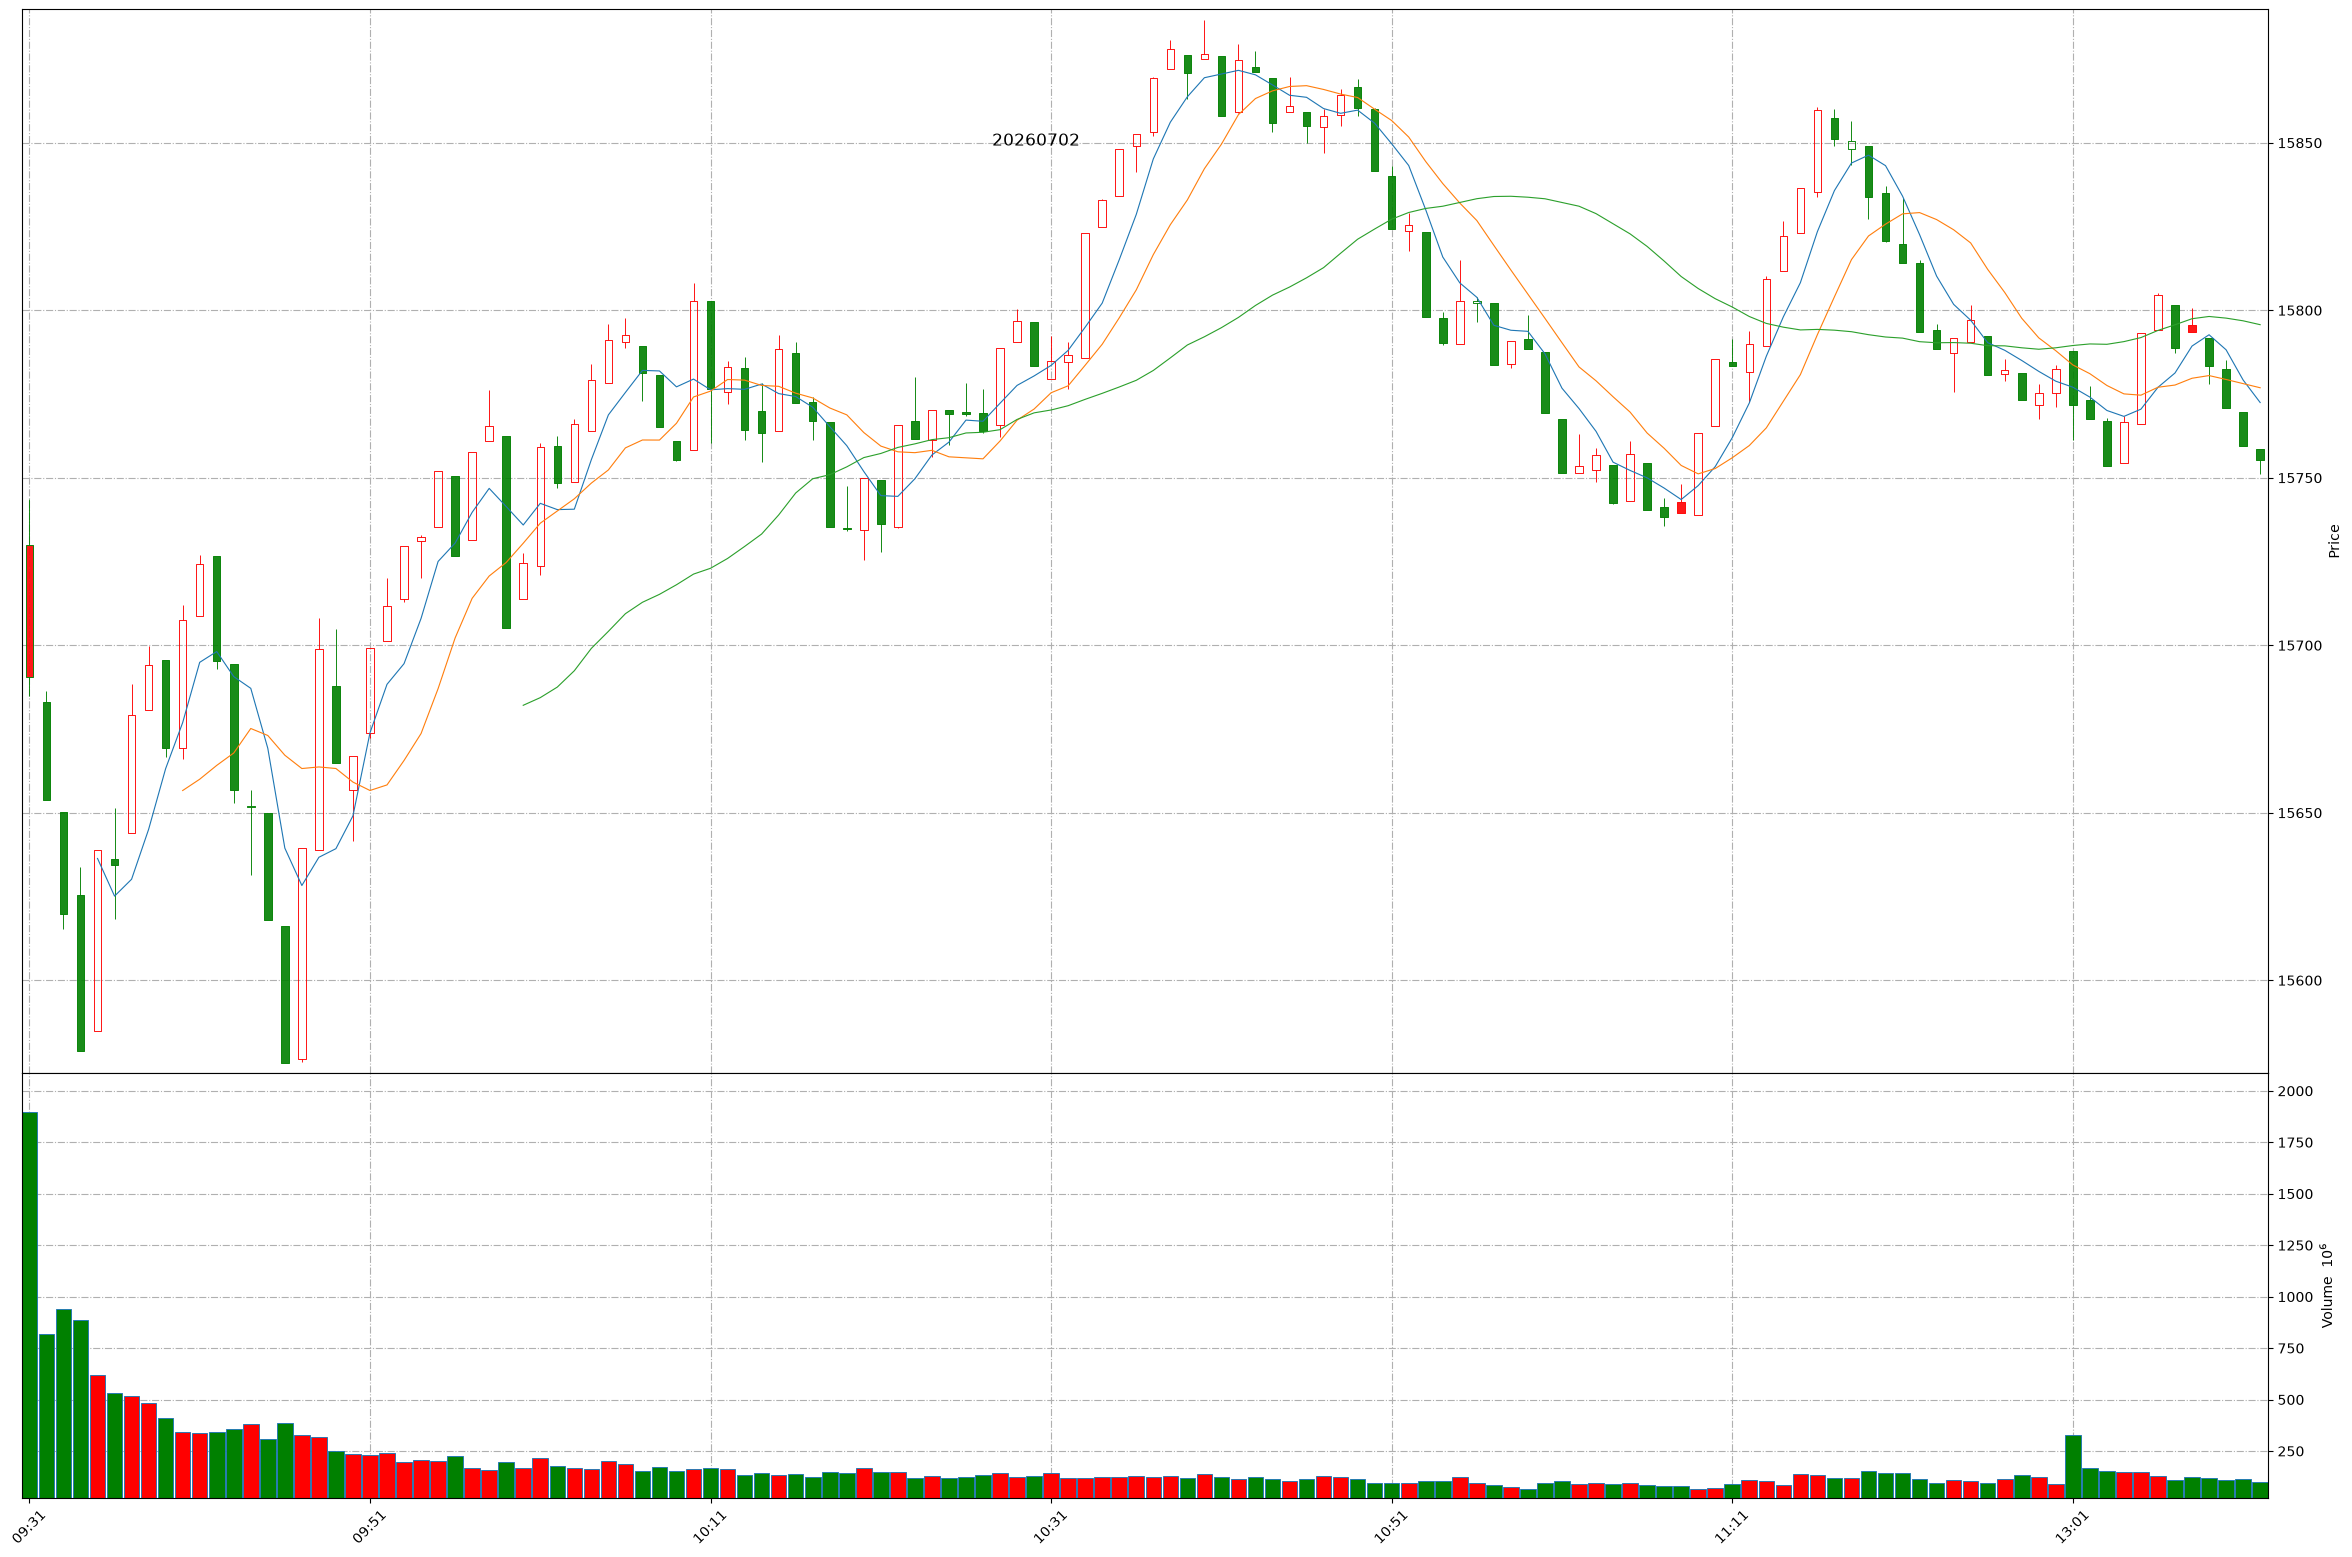
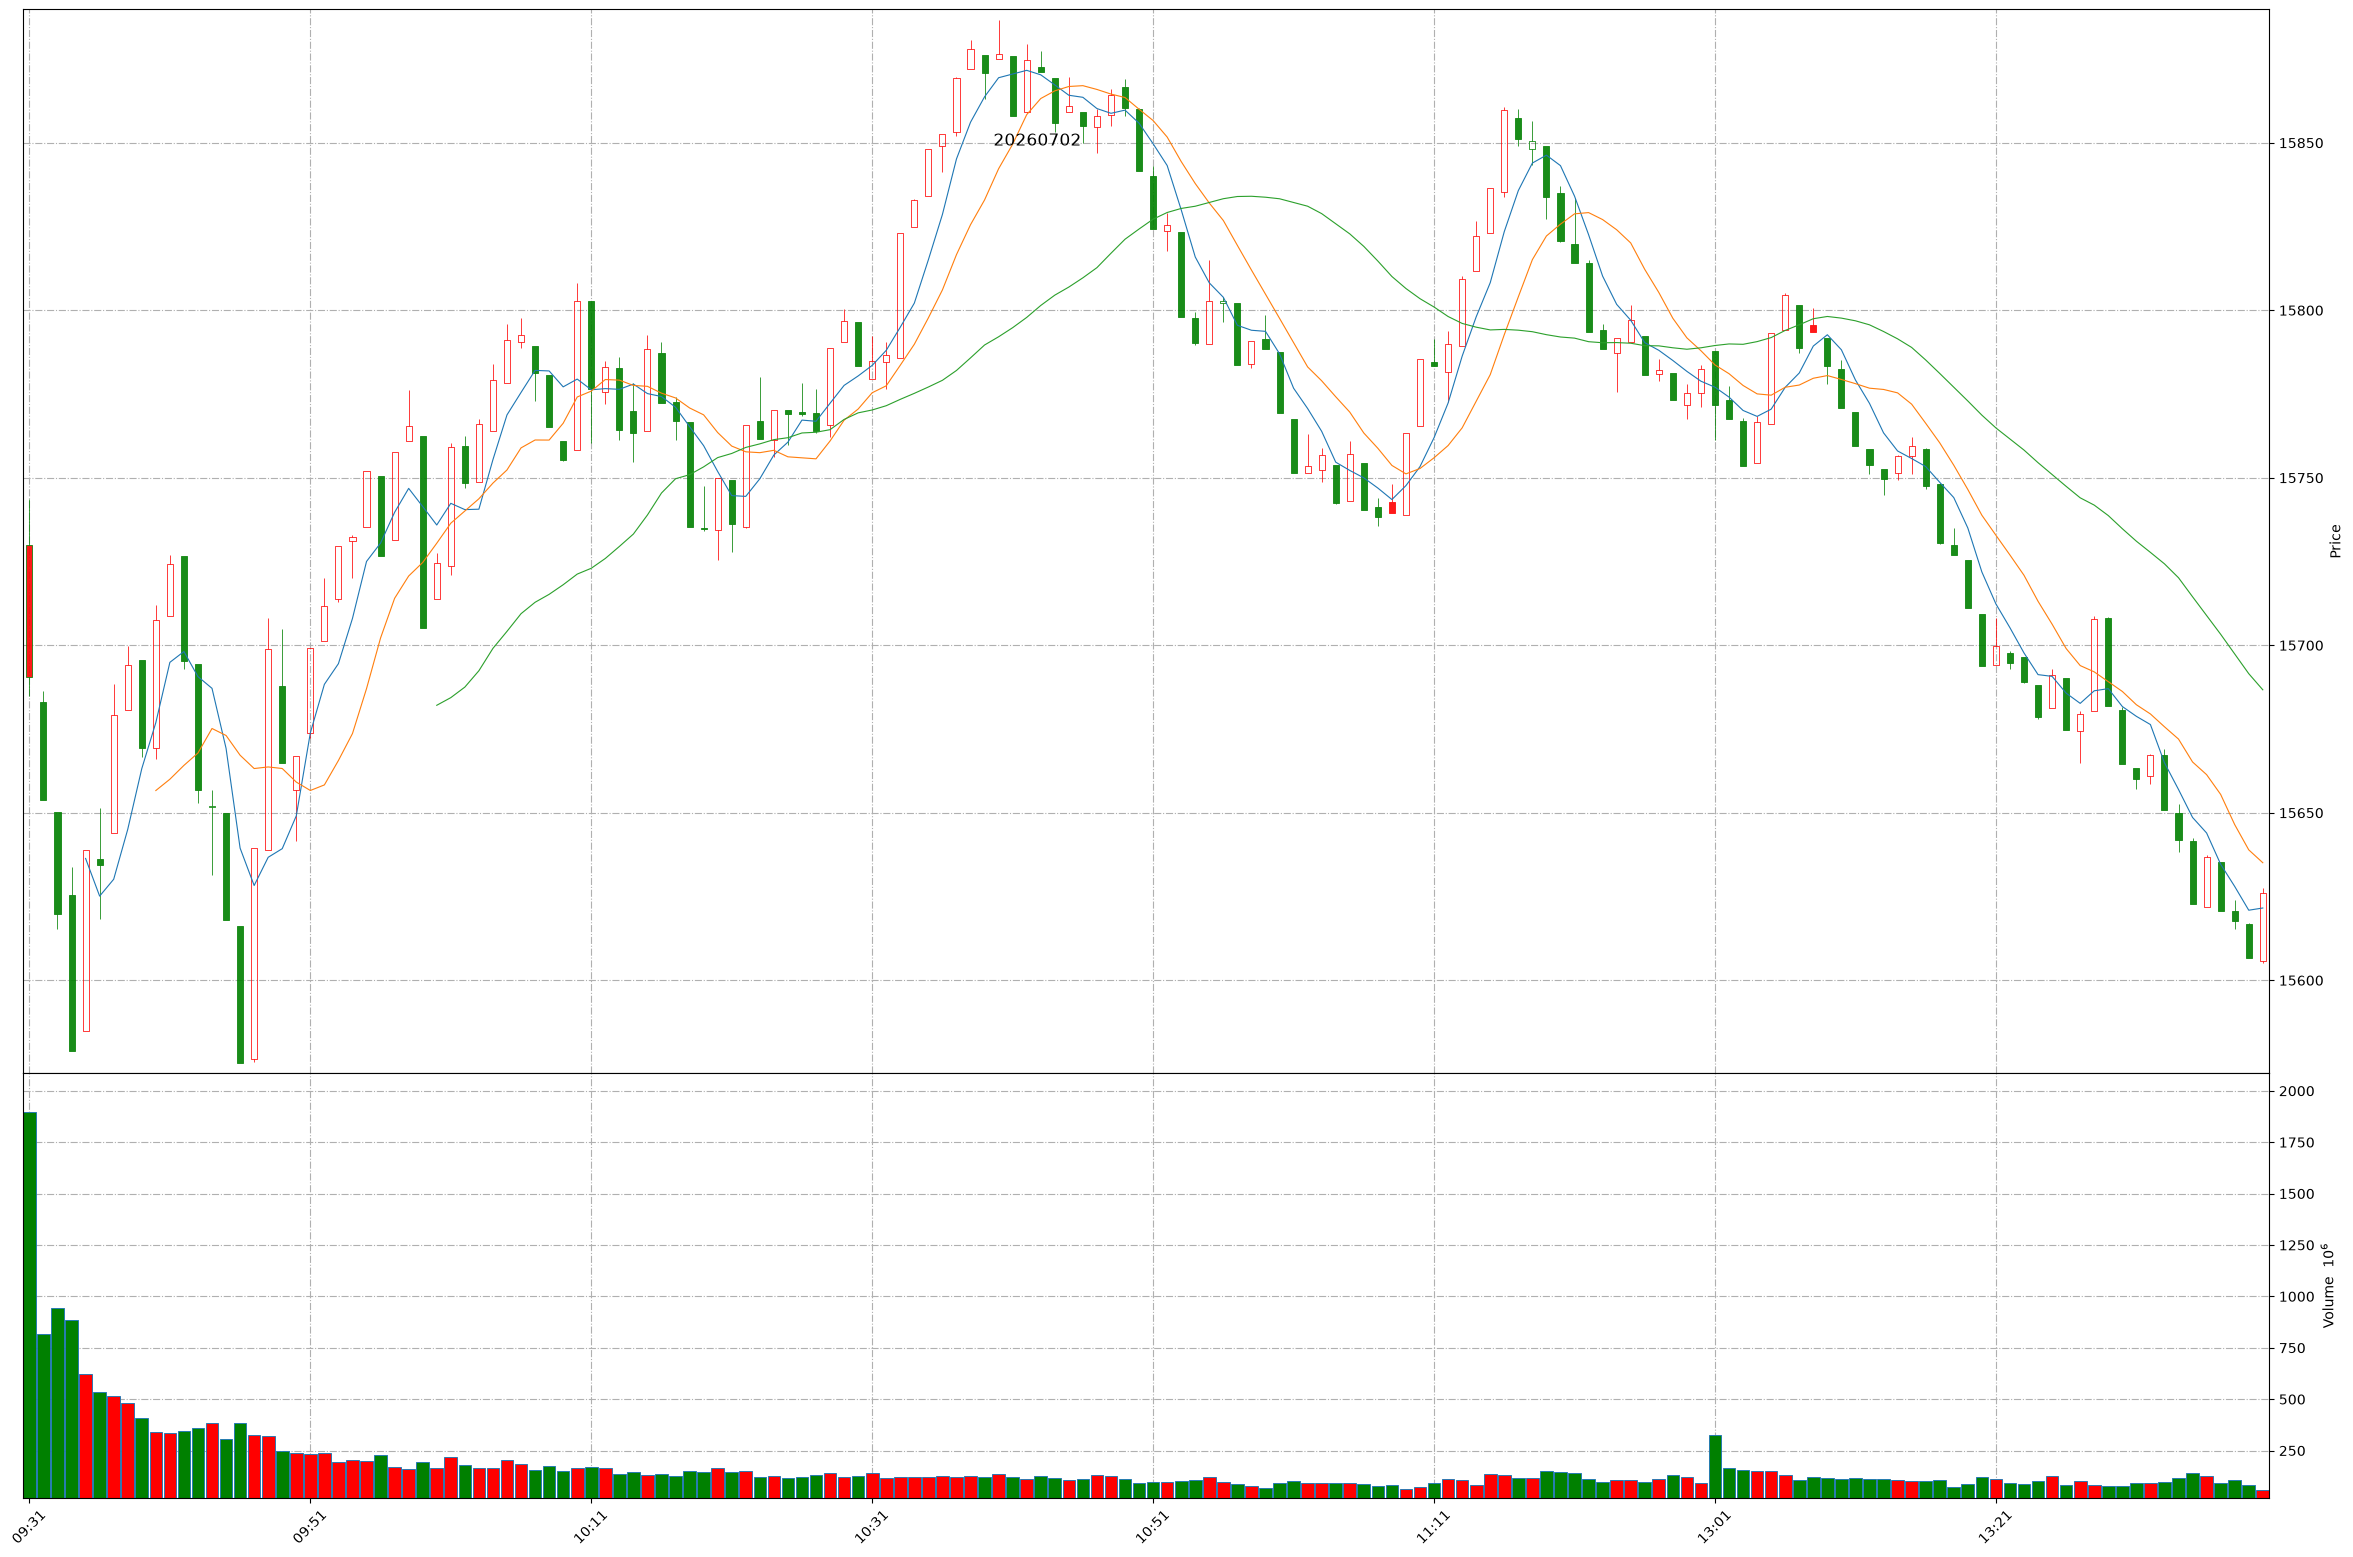
Github action update at 2026-07-02 13:39:48.

diff --git a/README.md b/README.md
@@ -1,11 +1,11 @@
 
 # Daily-A-share-market-quotes 每日 A 股指数（5min 更新）- 20260702
 
-### 上证指数 20260702 13:12
+### 上证指数 20260702 13:39
 ![](./fig/2026/7/20260702-sh000001.png)
 
-### 深证成指 20260702 13:12
+### 深证成指 20260702 13:39
 ![](./fig/2026/7/20260702-sz399001.png)
 
-### 北证50 20260702 13:12
+### 北证50 20260702 13:39
 ![](./fig/2026/7/20260702-bj899050.png)
